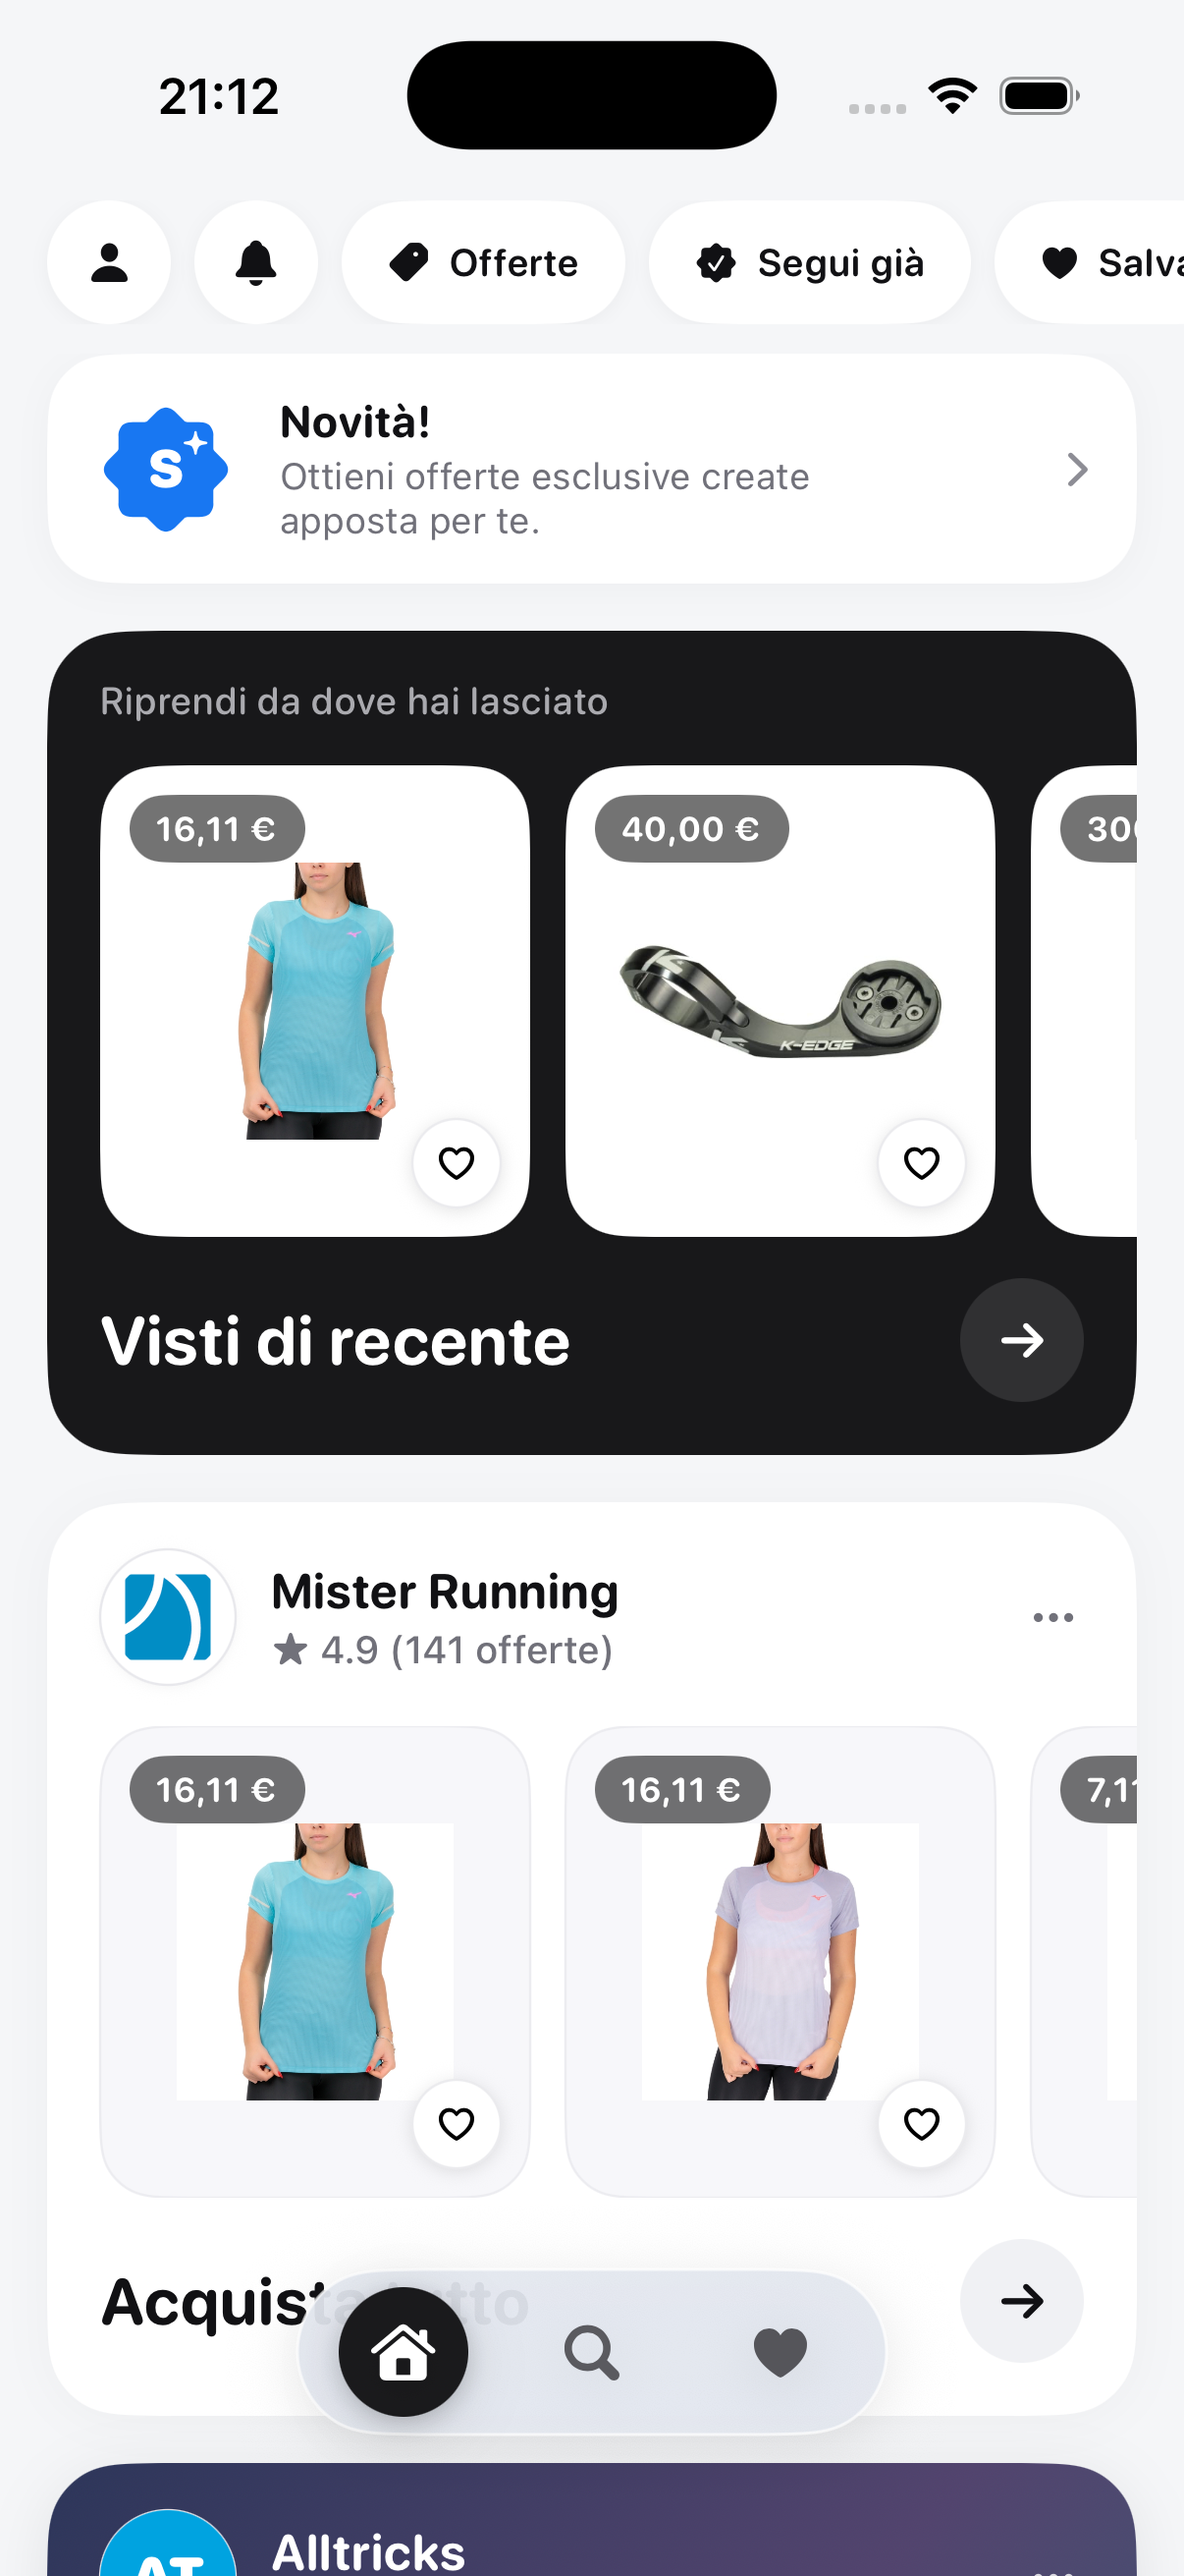
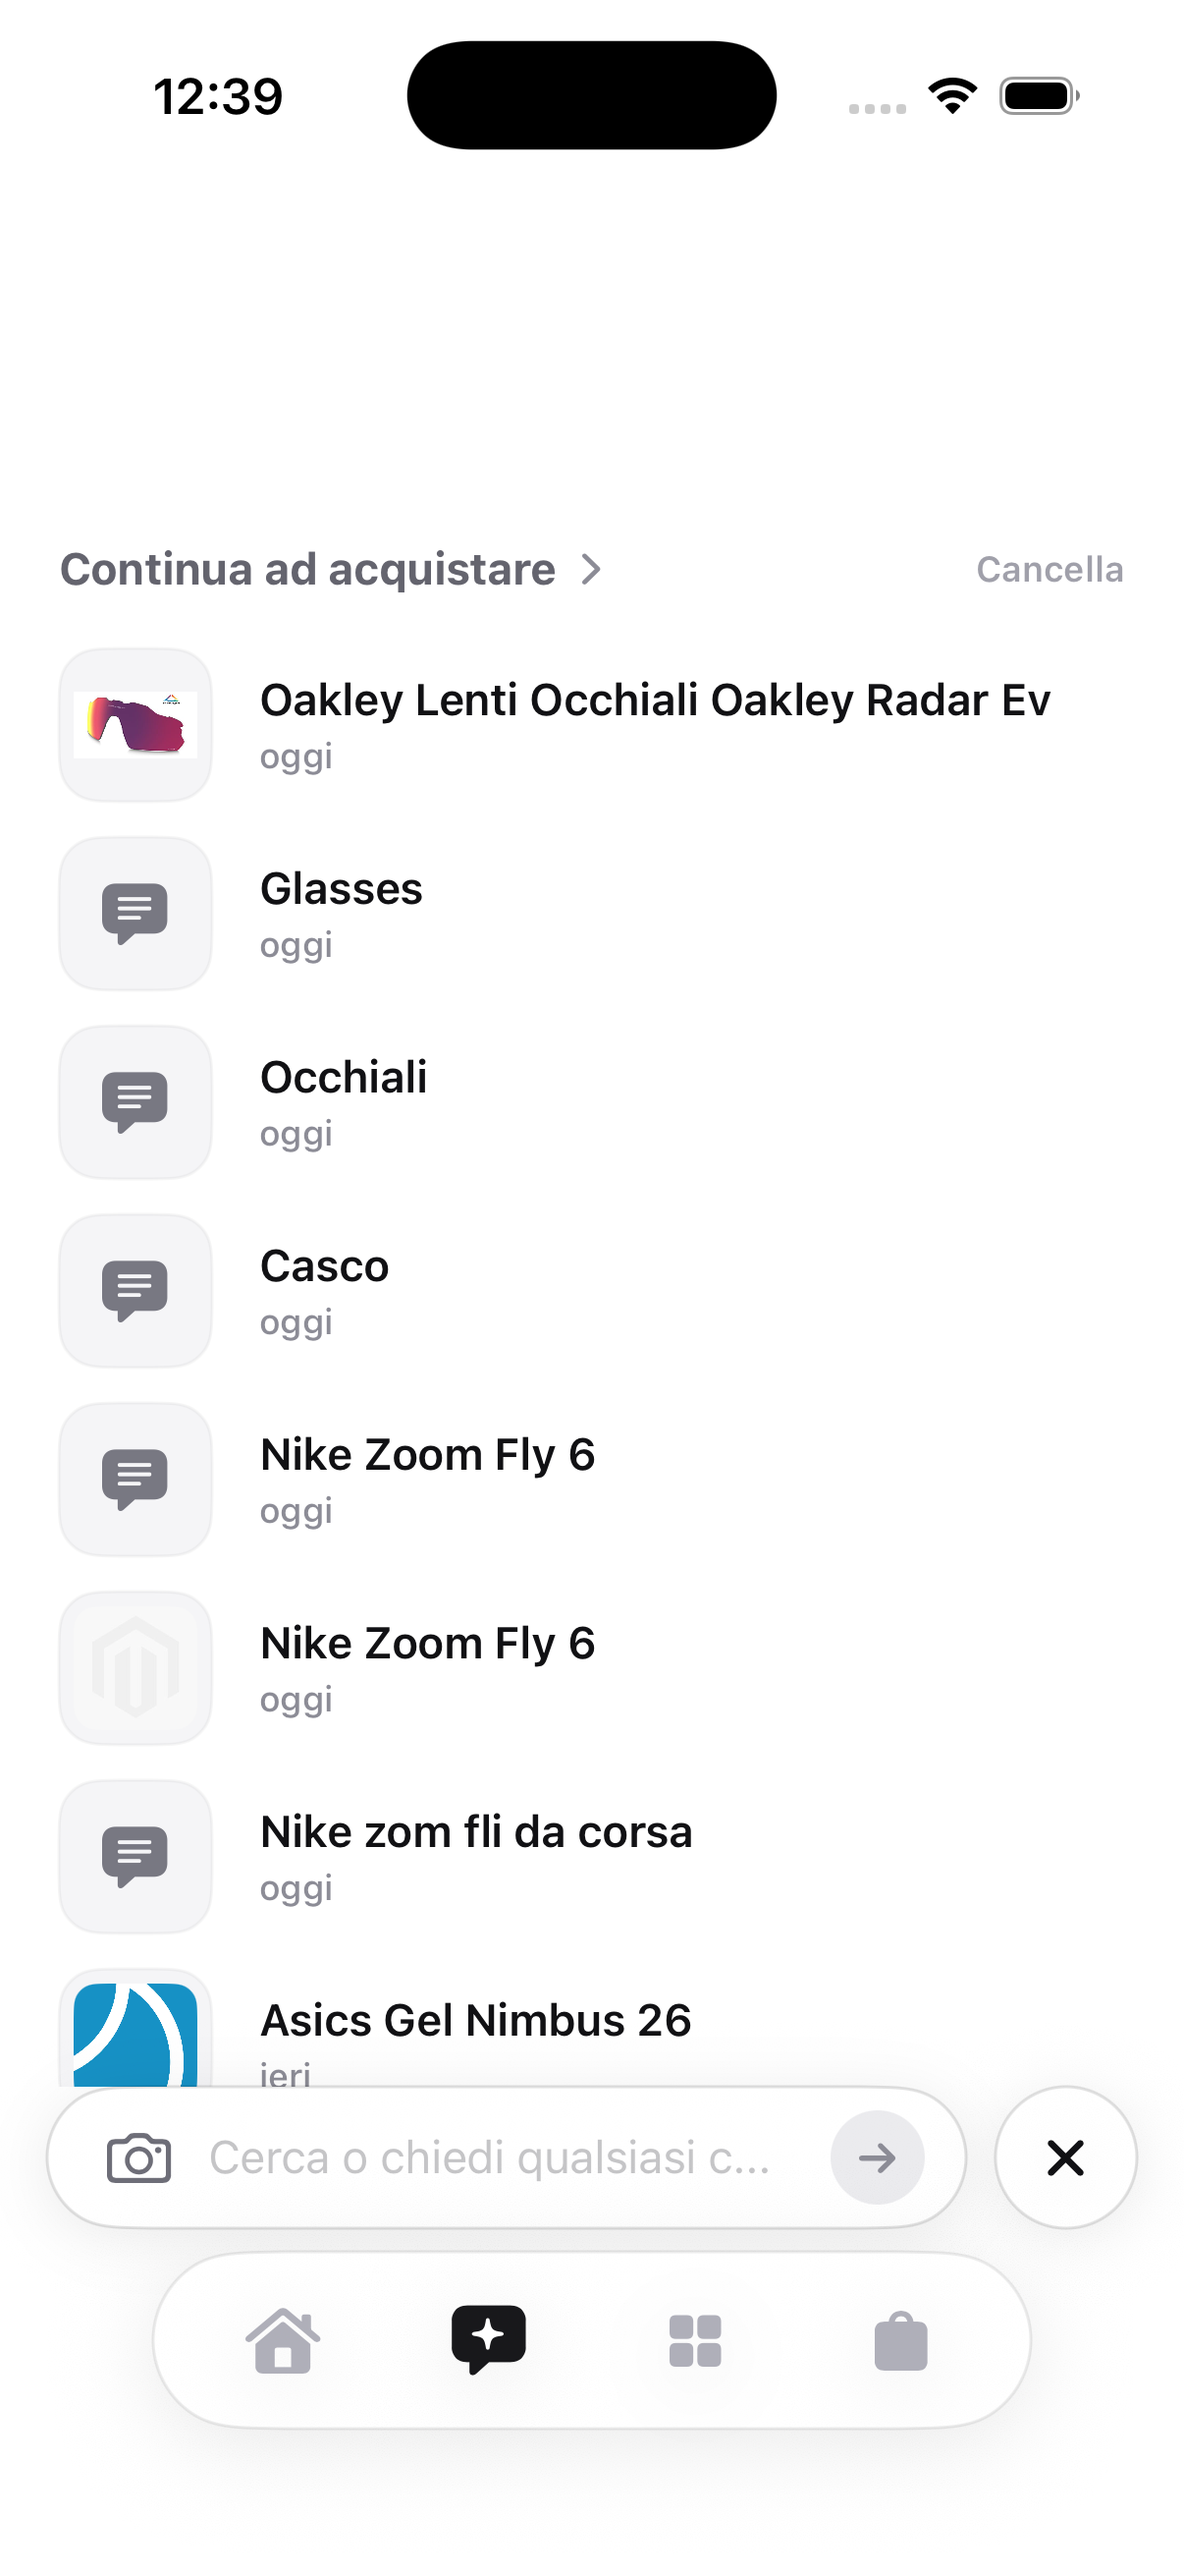
fix(search): fix compressed layout and pin 'Continua ad acquistare' header to top safe area

diff --git a/ios/FitMatch/Views/Search/SearchView.swift b/ios/FitMatch/Views/Search/SearchView.swift
@@ -105,6 +105,8 @@ struct SearchView: View {
             .navigationDestination(item: $selectedRecentProduct) { prod in
                 ProductDetailView(product: prod)
             }
+            .toolbar(.hidden, for: .navigationBar)
+            .navigationBarTitleDisplayMode(.inline)
             .navigationBarHidden(true)
             .task {
                 loadInitialTopSavings()
@@ -114,35 +116,37 @@ struct SearchView: View {
 
     // MARK: - SCREENSHOT 1: Search Typing & History View
     private var searchTypingHistoryView: some View {
-        VStack(spacing: 0) {
-            ScrollView {
-                VStack(alignment: .leading, spacing: 18) {
-                    // Header: "Continua ad acquistare ›" (Exact match to Screenshot 1)
-                    HStack(spacing: 6) {
-                        Text("Continua ad acquistare")
-                            .font(.system(size: 15, weight: .bold))
-                            .foregroundColor(Color(red: 100/255, green: 100/255, blue: 110/255))
-                        Image(systemName: "chevron.right")
-                            .font(.system(size: 12, weight: .semibold))
-                            .foregroundColor(Color(red: 140/255, green: 140/255, blue: 150/255))
-                        Spacer()
+        ZStack(alignment: .bottom) {
+            VStack(spacing: 0) {
+                // Header pinned at top: "Continua ad acquistare ›" (Exact match to Screenshot 1)
+                HStack(spacing: 6) {
+                    Text("Continua ad acquistare")
+                        .font(.system(size: 15, weight: .bold))
+                        .foregroundColor(Color(red: 100/255, green: 100/255, blue: 110/255))
+                    Image(systemName: "chevron.right")
+                        .font(.system(size: 12, weight: .semibold))
+                        .foregroundColor(Color(red: 140/255, green: 140/255, blue: 150/255))
+                    Spacer()
 
-                        if !recentManager.activities.isEmpty {
-                            Button(action: {
-                                withAnimation {
-                                    recentManager.clearAll()
-                                }
-                            }) {
-                                Text("Cancella")
-                                    .font(.system(size: 12, weight: .semibold))
-                                    .foregroundColor(Color(red: 160/255, green: 160/255, blue: 170/255))
+                    if !recentManager.activities.isEmpty {
+                        Button(action: {
+                            withAnimation {
+                                recentManager.clearAll()
                             }
+                        }) {
+                            Text("Cancella")
+                                .font(.system(size: 12, weight: .semibold))
+                                .foregroundColor(Color(red: 160/255, green: 160/255, blue: 170/255))
                         }
                     }
-                    .padding(.horizontal, 20)
-                    .padding(.top, 16)
+                }
+                .padding(.horizontal, 20)
+                .padding(.top, 8)
+                .padding(.bottom, 12)
+                .background(Color.white)
 
-                    // Real User Recent Activity List (Searches & Viewed Products)
+                // Real User Recent Activity List (Searches & Viewed Products)
+                ScrollView(showsIndicators: false) {
                     if recentManager.activities.isEmpty {
                         VStack(spacing: 10) {
                             Image(systemName: "clock.arrow.circlepath")
@@ -226,9 +230,10 @@ struct SearchView: View {
                                 }
                             }
                         }
+                        .padding(.top, 4)
+                        .padding(.bottom, 150) // Space for bottom floating search bar and island dock
                     }
                 }
-                .padding(.bottom, 120) // Space for bottom input bar
             }
 
             // Floating Bottom Search Bar (Exact match to Screenshot 1)
